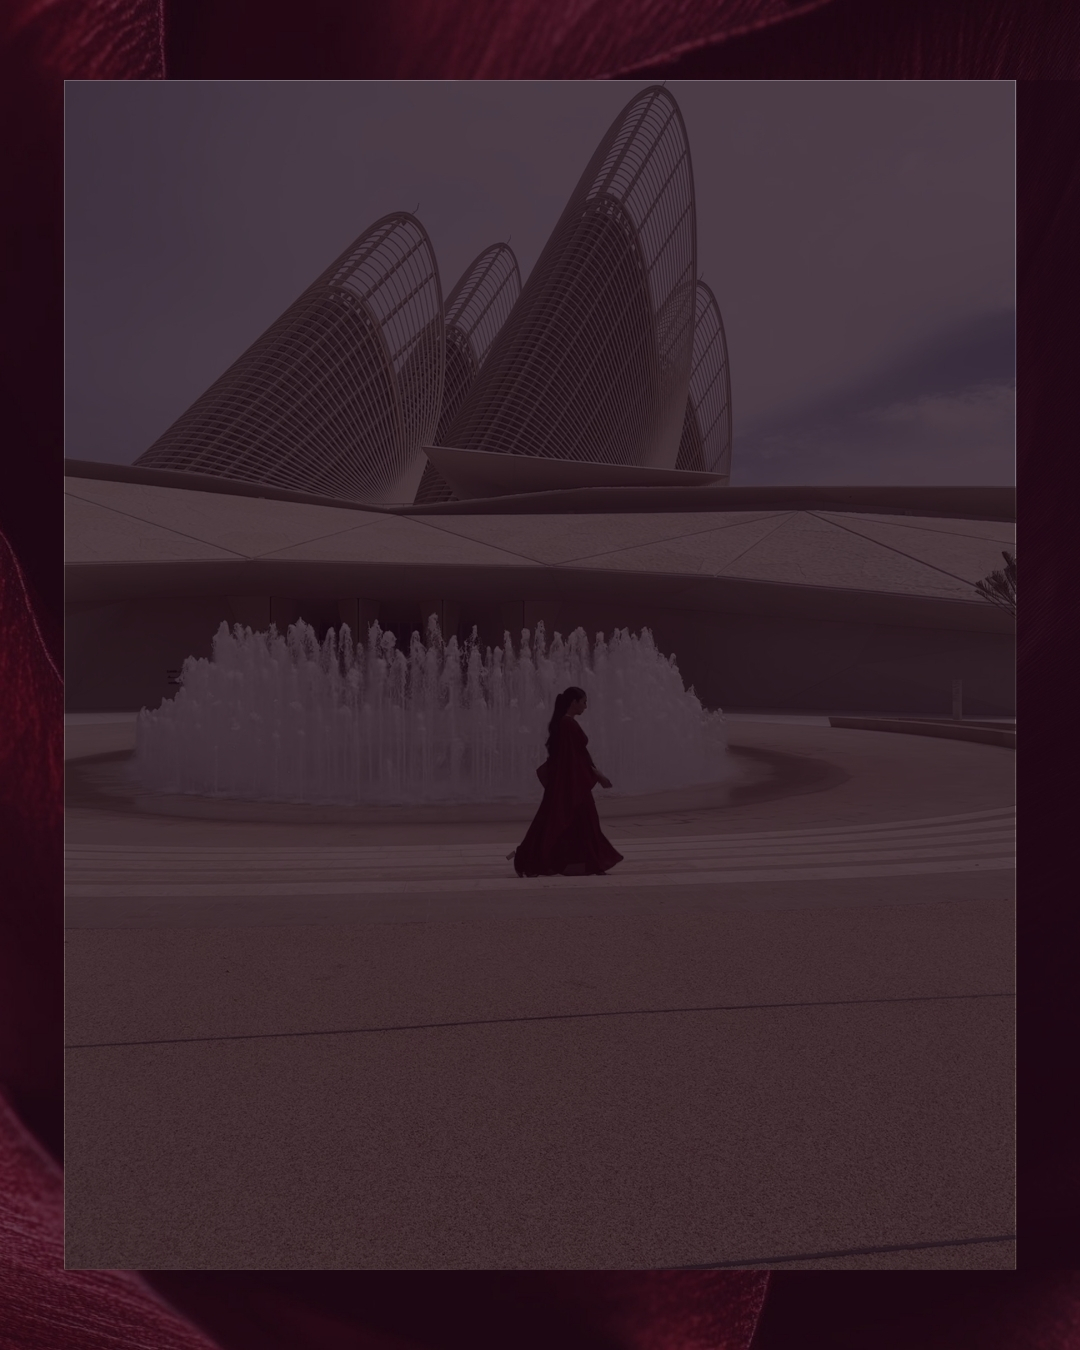
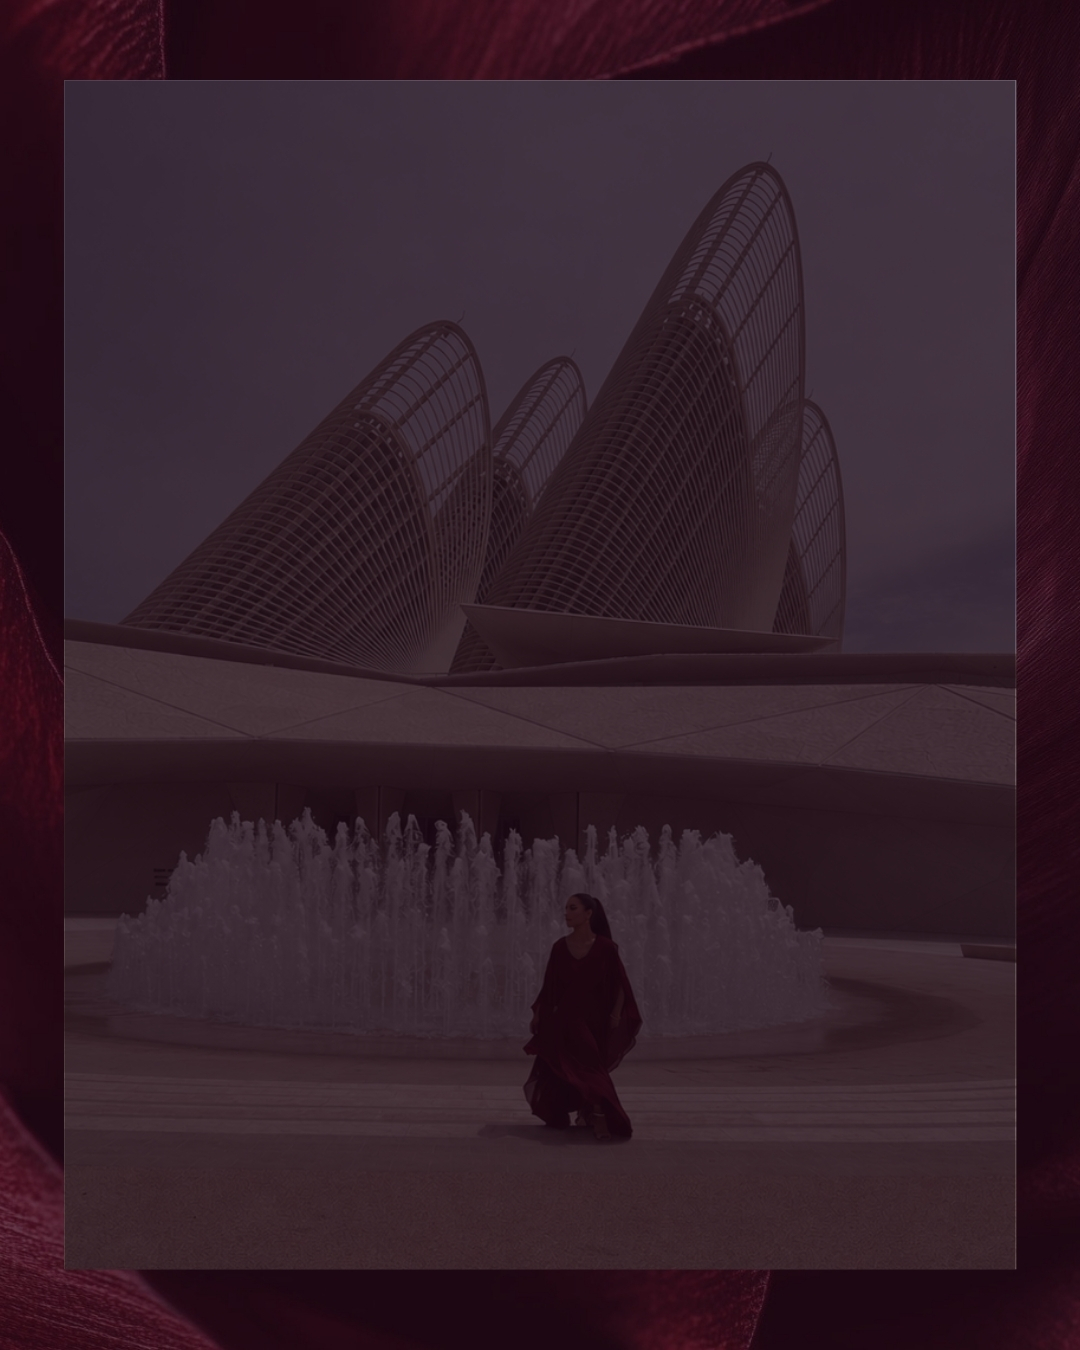
Update coming-soon 6a image and bump carousel cache version

Changed region(s): [[0.0611, 0.1244, 0.9778, 0.8711], [0.9167, 0.5289, 0.9472, 0.56]]

diff --git a/app/page.tsx b/app/page.tsx
@@ -11,7 +11,7 @@ const headerBarGradient =
   'bg-[linear-gradient(90deg,#12080b_0%,#1c0f15_22%,#2d141e_50%,#1c0f15_78%,#12080b_100%)]'
 
 /** `public/coming soon images/1a.jpg` … `24a.jpg` (URL-encoded because of the space in the folder name) */
-const COMING_SOON_IMAGES_V = '3'
+const COMING_SOON_IMAGES_V = '4'
 const COMING_SOON_IMAGES = Array.from(
   { length: 24 },
   (_, i) => `/coming%20soon%20images/${i + 1}a.jpg?v=${COMING_SOON_IMAGES_V}`,
